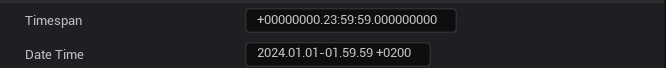
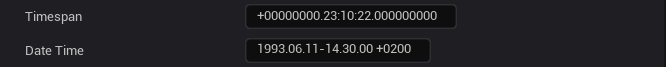
Fixed rounding up issue

diff --git a/Source/CommonTime/Private/DetailCustomizations/MyDateTimeDetailCustomization.cpp b/Source/CommonTime/Private/DetailCustomizations/MyDateTimeDetailCustomization.cpp
@@ -40,94 +40,106 @@ void FMyDateTimeDetailCustomization::CustomizeHeader(TSharedRef<IPropertyHandle>
 {
 	PropertyHandle = StructPropertyHandle;
 
-	SAssignNew(YearEntryBox, SNumericEntryBox<int32>)
+	SAssignNew(YearEntryBox, SNumericEntryBox<double>)
 		.AllowSpin(true)
 		.MinValue(1)
 		.MaxValue(9999)
 		.MinSliderValue(1)
 		.MaxSliderValue(9999)
+		.MinFractionalDigits(0)
+		.MaxFractionalDigits(0)
 		.Font(IDetailLayoutBuilder::GetDetailFont())
 		.Value(this, &FMyDateTimeDetailCustomization::OnGetValue, 3)
 		.OnValueChanged(this, &FMyDateTimeDetailCustomization::OnValueChanged, 3)
 		.OnValueCommitted(this, &FMyDateTimeDetailCustomization::OnValueCommitted, 3)
 		.OnBeginSliderMovement(this, &FMyDateTimeDetailCustomization::OnBeginSliderMovement)
 		.OnEndSliderMovement(this, &FMyDateTimeDetailCustomization::OnEndSliderMovement)
-		.TypeInterface(MakeShareable(new TNumericUnitTypeInterface<int32>(EUnit::Years)))
+		.TypeInterface(MakeShareable(new TNumericUnitTypeInterface<double>(EUnit::Years)))
 		.LinearDeltaSensitivity(1);
 
-	SAssignNew(MonthEntryBox, SNumericEntryBox<int32>)
+	SAssignNew(MonthEntryBox, SNumericEntryBox<double>)
 		.AllowSpin(true)
 		.MinValue(1)
 		.MaxValue(12)
 		.MinSliderValue(1)
 		.MaxSliderValue(12)
+		.MinFractionalDigits(0)
+		.MaxFractionalDigits(0)
 		.Font(IDetailLayoutBuilder::GetDetailFont())
 		.Value(this, &FMyDateTimeDetailCustomization::OnGetValue, 4)
 		.OnValueChanged(this, &FMyDateTimeDetailCustomization::OnValueChanged, 4)
 		.OnValueCommitted(this, &FMyDateTimeDetailCustomization::OnValueCommitted, 4)
 		.OnBeginSliderMovement(this, &FMyDateTimeDetailCustomization::OnBeginSliderMovement)
 		.OnEndSliderMovement(this, &FMyDateTimeDetailCustomization::OnEndSliderMovement)
-		.TypeInterface(MakeShareable(new TNumericUnitTypeInterface<int32>(EUnit::Months)))
+		.TypeInterface(MakeShareable(new TNumericUnitTypeInterface<double>(EUnit::Months)))
 		.LinearDeltaSensitivity(1);
 
-	SAssignNew(DayEntryBox, SNumericEntryBox<int32>)
+	SAssignNew(DayEntryBox, SNumericEntryBox<double>)
 		.AllowSpin(true)
 		.MinValue(1)
 		.MaxValue(31)
 		.MinSliderValue(1)
 		.MaxSliderValue(31)
+		.MinFractionalDigits(0)
+		.MaxFractionalDigits(0)
 		.Font(IDetailLayoutBuilder::GetDetailFont())
 		.Value(this, &FMyDateTimeDetailCustomization::OnGetValue, 5)
 		.OnValueChanged(this, &FMyDateTimeDetailCustomization::OnValueChanged, 5)
 		.OnValueCommitted(this, &FMyDateTimeDetailCustomization::OnValueCommitted, 5)
 		.OnBeginSliderMovement(this, &FMyDateTimeDetailCustomization::OnBeginSliderMovement)
 		.OnEndSliderMovement(this, &FMyDateTimeDetailCustomization::OnEndSliderMovement)
-		.TypeInterface(MakeShareable(new TNumericUnitTypeInterface<int32>(EUnit::Days)))
+		.TypeInterface(MakeShareable(new TNumericUnitTypeInterface<double>(EUnit::Days)))
 		.LinearDeltaSensitivity(1);
 
-	SAssignNew(HourEntryBox, SNumericEntryBox<int32>)
+	SAssignNew(HourEntryBox, SNumericEntryBox<double>)
 		.AllowSpin(true)
 		.MinValue(0)
 		.MaxValue(23)
 		.MinSliderValue(0)
 		.MaxSliderValue(23)
+		.MinFractionalDigits(0)
+		.MaxFractionalDigits(0)
 		.Font(IDetailLayoutBuilder::GetDetailFont())
 		.Value(this, &FMyDateTimeDetailCustomization::OnGetValue, 0)
 		.OnValueChanged(this, &FMyDateTimeDetailCustomization::OnValueChanged, 0)
 		.OnValueCommitted(this, &FMyDateTimeDetailCustomization::OnValueCommitted, 0)
 		.OnBeginSliderMovement(this, &FMyDateTimeDetailCustomization::OnBeginSliderMovement)
 		.OnEndSliderMovement(this, &FMyDateTimeDetailCustomization::OnEndSliderMovement)
-		.TypeInterface(MakeShareable(new TNumericUnitTypeInterface<int32>(EUnit::Hours)))
+		.TypeInterface(MakeShareable(new TNumericUnitTypeInterface<double>(EUnit::Hours)))
 		.LinearDeltaSensitivity(1);
 
-	SAssignNew(MinuteEntryBox, SNumericEntryBox<int32>)
+	SAssignNew(MinuteEntryBox, SNumericEntryBox<double>)
 		.AllowSpin(true)
 		.MinValue(0)
 		.MaxValue(59)
 		.MinSliderValue(0)
 		.MaxSliderValue(59)
+		.MinFractionalDigits(0)
+		.MaxFractionalDigits(0)
 		.Font(IDetailLayoutBuilder::GetDetailFont())
 		.Value(this, &FMyDateTimeDetailCustomization::OnGetValue, 1)
 		.OnValueChanged(this, &FMyDateTimeDetailCustomization::OnValueChanged, 1)
 		.OnValueCommitted(this, &FMyDateTimeDetailCustomization::OnValueCommitted, 1)
 		.OnBeginSliderMovement(this, &FMyDateTimeDetailCustomization::OnBeginSliderMovement)
 		.OnEndSliderMovement(this, &FMyDateTimeDetailCustomization::OnEndSliderMovement)
-		.TypeInterface(MakeShareable(new TNumericUnitTypeInterface<int32>(EUnit::Minutes)))
+		.TypeInterface(MakeShareable(new TNumericUnitTypeInterface<double>(EUnit::Minutes)))
 		.LinearDeltaSensitivity(1);
 
-	SAssignNew(SecondEntryBox, SNumericEntryBox<int32>)
+	SAssignNew(SecondEntryBox, SNumericEntryBox<double>)
 		.AllowSpin(true)
 		.MinValue(0)
 		.MaxValue(59)
 		.MinSliderValue(0)
 		.MaxSliderValue(59)
+		.MinFractionalDigits(0)
+		.MaxFractionalDigits(0)
 		.Font(IDetailLayoutBuilder::GetDetailFont())
 		.Value(this, &FMyDateTimeDetailCustomization::OnGetValue, 2)
 		.OnValueChanged(this, &FMyDateTimeDetailCustomization::OnValueChanged, 2)
 		.OnValueCommitted(this, &FMyDateTimeDetailCustomization::OnValueCommitted, 2)
 		.OnBeginSliderMovement(this, &FMyDateTimeDetailCustomization::OnBeginSliderMovement)
 		.OnEndSliderMovement(this, &FMyDateTimeDetailCustomization::OnEndSliderMovement)
-		.TypeInterface(MakeShareable(new TNumericUnitTypeInterface<int32>(EUnit::Seconds)))
+		.TypeInterface(MakeShareable(new TNumericUnitTypeInterface<double>(EUnit::Seconds)))
 		.LinearDeltaSensitivity(1);
 
 	HeaderRow
@@ -193,41 +205,41 @@ void FMyDateTimeDetailCustomization::CustomizeHeader(TSharedRef<IPropertyHandle>
 /* FMyDateTimeDetailCustomization callbacks
  *****************************************************************************/
 
-TOptional<int32> FMyDateTimeDetailCustomization::OnGetValue(int32 Index) const
+TOptional<double> FMyDateTimeDetailCustomization::OnGetValue(int32 Index) const
 {
 	TArray<void*> RawData;
 	PropertyHandle->AccessRawData(RawData);
 
 	if (RawData.Num() != 1)
-		return TOptional<int32>();
+		return TOptional<double>();
 
 	if (RawData[0] == nullptr)
-		return TOptional<int32>();
+		return TOptional<double>();
 
 	auto* DateTime = ((FDateTime*)RawData[0]);
 
 	switch (Index)
 	{
 		case 0:
-			return TOptional<int32>(DateTime->GetHour());
+			return TOptional<double>(DateTime->GetHour());
 
 		case 1:
-			return TOptional<int32>(DateTime->GetMinute());
+			return TOptional<double>(DateTime->GetMinute());
 
 		case 2:
-			return TOptional<int32>(DateTime->GetSecond());
+			return TOptional<double>(DateTime->GetSecond());
 
 		case 3:
-			return TOptional<int32>(DateTime->GetYear());
+			return TOptional<double>(DateTime->GetYear());
 
 		case 4:
-			return TOptional<int32>(DateTime->GetMonth());
+			return TOptional<double>(DateTime->GetMonth());
 
 		case 5:
-			return TOptional<int32>(DateTime->GetDay());
+			return TOptional<double>(DateTime->GetDay());
 
 		default:
-			return TOptional<int32>();
+			return TOptional<double>();
 	}
 }
 
@@ -242,15 +254,17 @@ void FMyDateTimeDetailCustomization::OnBeginSliderMovement()
 	);
 }
 
-void FMyDateTimeDetailCustomization::OnEndSliderMovement(int32 NewValue)
+void FMyDateTimeDetailCustomization::OnEndSliderMovement(double NewValue)
 {
 	bIsUsingSlider = false;
 
 	GEditor->EndTransaction();
 }
 
-void FMyDateTimeDetailCustomization::OnValueCommitted(int32 NewValue, ETextCommit::Type CommitType, int32 Index)
+void FMyDateTimeDetailCustomization::OnValueCommitted(double NewValue, ETextCommit::Type CommitType, int32 Index)
 {
+	NewValue = FMath::CeilToDouble(NewValue);
+
 	TArray<void*> RawData;
 
 	PropertyHandle->AccessRawData(RawData);
@@ -311,10 +325,12 @@ void FMyDateTimeDetailCustomization::OnValueCommitted(int32 NewValue, ETextCommi
 	PropertyHandle->NotifyFinishedChangingProperties();
 }
 
-void FMyDateTimeDetailCustomization::OnValueChanged(int32 NewValue, int32 Index)
+void FMyDateTimeDetailCustomization::OnValueChanged(double NewValue, int32 Index)
 {
 	if (!bIsUsingSlider)
 		return;
+
+	NewValue = FMath::CeilToDouble(NewValue);
 
 	TArray<void*> RawData;
 
@@ -374,9 +390,6 @@ void FMyDateTimeDetailCustomization::OnValueChanged(int32 NewValue, int32 Index)
 
 	PropertyHandle->NotifyPostChange(EPropertyChangeType::ValueSet);
 	PropertyHandle->NotifyFinishedChangingProperties();
-
-	//EPropertyValueSetFlags::Type Flags = EPropertyValueSetFlags::InteractiveChange;
-	//PropertyHandle->SetValue(NewValue, Flags);
 }
 
 #undef LOCTEXT_NAMESPACE

diff --git a/Source/CommonTime/Private/DetailCustomizations/MyTimespanDetailCustomization.cpp b/Source/CommonTime/Private/DetailCustomizations/MyTimespanDetailCustomization.cpp
@@ -44,49 +44,55 @@ void FMyTimespanDetailCustomization::CustomizeHeader(
 {
 	PropertyHandle = StructPropertyHandle;
 
-	SAssignNew(HourEntryBox, SNumericEntryBox<int32>)
+	SAssignNew(HourEntryBox, SNumericEntryBox<double>)
 		.AllowSpin(true)
 		.MinValue(0)
 		.MaxValue(23)
 		.MinSliderValue(0)
 		.MaxSliderValue(23)
+		.MinFractionalDigits(0)
+		.MaxFractionalDigits(0)
 		.Font(IDetailLayoutBuilder::GetDetailFont())
 		.Value(this, &FMyTimespanDetailCustomization::OnGetValue, 0)
 		.OnValueChanged(this, &FMyTimespanDetailCustomization::OnValueChanged, 0)
 		.OnValueCommitted(this, &FMyTimespanDetailCustomization::OnValueCommitted, 0)
 		.OnBeginSliderMovement(this, &FMyTimespanDetailCustomization::OnBeginSliderMovement)
 		.OnEndSliderMovement(this, &FMyTimespanDetailCustomization::OnEndSliderMovement)
-		.TypeInterface(MakeShareable(new TNumericUnitTypeInterface<int32>(EUnit::Hours)))
+		.TypeInterface(MakeShareable(new TNumericUnitTypeInterface<double>(EUnit::Hours)))
 		.LinearDeltaSensitivity(1);
 
-	SAssignNew(MinuteEntryBox, SNumericEntryBox<int32>)
+	SAssignNew(MinuteEntryBox, SNumericEntryBox<double>)
 		.AllowSpin(true)
 		.MinValue(0)
 		.MaxValue(59)
 		.MinSliderValue(0)
 		.MaxSliderValue(59)
+		.MinFractionalDigits(0)
+		.MaxFractionalDigits(0)
 		.Font(IDetailLayoutBuilder::GetDetailFont())
 		.Value(this, &FMyTimespanDetailCustomization::OnGetValue, 1)
 		.OnValueChanged(this, &FMyTimespanDetailCustomization::OnValueChanged, 1)
 		.OnValueCommitted(this, &FMyTimespanDetailCustomization::OnValueCommitted, 1)
 		.OnBeginSliderMovement(this, &FMyTimespanDetailCustomization::OnBeginSliderMovement)
 		.OnEndSliderMovement(this, &FMyTimespanDetailCustomization::OnEndSliderMovement)
-		.TypeInterface(MakeShareable(new TNumericUnitTypeInterface<int32>(EUnit::Minutes)))
+		.TypeInterface(MakeShareable(new TNumericUnitTypeInterface<double>(EUnit::Minutes)))
 		.LinearDeltaSensitivity(1);
 
-	SAssignNew(SecondEntryBox, SNumericEntryBox<int32>)
+	SAssignNew(SecondEntryBox, SNumericEntryBox<double>)
 		.AllowSpin(true)
 		.MinValue(0)
 		.MaxValue(59)
 		.MinSliderValue(0)
 		.MaxSliderValue(59)
+		.MinFractionalDigits(0)
+		.MaxFractionalDigits(0)
 		.Font(IDetailLayoutBuilder::GetDetailFont())
 		.Value(this, &FMyTimespanDetailCustomization::OnGetValue, 2)
 		.OnValueChanged(this, &FMyTimespanDetailCustomization::OnValueChanged, 2)
 		.OnValueCommitted(this, &FMyTimespanDetailCustomization::OnValueCommitted, 2)
 		.OnBeginSliderMovement(this, &FMyTimespanDetailCustomization::OnBeginSliderMovement)
 		.OnEndSliderMovement(this, &FMyTimespanDetailCustomization::OnEndSliderMovement)
-		.TypeInterface(MakeShareable(new TNumericUnitTypeInterface<int32>(EUnit::Seconds)))
+		.TypeInterface(MakeShareable(new TNumericUnitTypeInterface<double>(EUnit::Seconds)))
 		.LinearDeltaSensitivity(1);
 
 	HeaderRow
@@ -121,32 +127,32 @@ void FMyTimespanDetailCustomization::CustomizeHeader(
 /* FMyTimespanDetailCustomization callbacks
  *****************************************************************************/
 
-TOptional<int32> FMyTimespanDetailCustomization::OnGetValue(int32 Index) const
+TOptional<double> FMyTimespanDetailCustomization::OnGetValue(int32 Index) const
 {
 	TArray<void*> RawData;
 	PropertyHandle->AccessRawData(RawData);
 
 	if (RawData.Num() != 1)
-		return TOptional<int32>();
+		return TOptional<double>();
 
 	if (RawData[0] == nullptr)
-		return TOptional<int32>();
+		return TOptional<double>();
 
 	auto* Timespan = ((FTimespan*)RawData[0]);
 
 	switch (Index)
 	{
 		case 0:
-			return TOptional<int32>(Timespan->GetHours());
+			return TOptional<double>(Timespan->GetHours());
 
 		case 1:
-			return TOptional<int32>(Timespan->GetMinutes());
+			return TOptional<double>(Timespan->GetMinutes());
 
 		case 2:
-			return TOptional<int32>(Timespan->GetSeconds());
+			return TOptional<double>(Timespan->GetSeconds());
 
 		default:
-			return TOptional<int32>();
+			return TOptional<double>();
 	}
 }
 
@@ -157,15 +163,17 @@ void FMyTimespanDetailCustomization::OnBeginSliderMovement()
 	GEditor->BeginTransaction(FText::Format(NSLOCTEXT("MyTimespanDetailCustomization", "SetTimespanProperty", "Edit {0}"), PropertyHandle->GetPropertyDisplayName()));
 }
 
-void FMyTimespanDetailCustomization::OnEndSliderMovement(int32 NewValue)
+void FMyTimespanDetailCustomization::OnEndSliderMovement(double NewValue)
 {
 	bIsUsingSlider = false;
 
 	GEditor->EndTransaction();
 }
 
-void FMyTimespanDetailCustomization::OnValueCommitted(int32 NewValue, ETextCommit::Type CommitType, int32 Index)
+void FMyTimespanDetailCustomization::OnValueCommitted(double NewValue, ETextCommit::Type CommitType, int32 Index)
 {
+	NewValue = FMath::CeilToDouble(NewValue);
+
 	TArray<void*> RawData;
 
 	PropertyHandle->AccessRawData(RawData);
@@ -202,13 +210,12 @@ void FMyTimespanDetailCustomization::OnValueCommitted(int32 NewValue, ETextCommi
 	PropertyHandle->NotifyFinishedChangingProperties();
 }
 
-void FMyTimespanDetailCustomization::OnValueChanged(int32 NewValue, int32 Index)
+void FMyTimespanDetailCustomization::OnValueChanged(double NewValue, int32 Index)
 {
 	if (!bIsUsingSlider)
 		return;
 
-	//EPropertyValueSetFlags::Type Flags = EPropertyValueSetFlags::InteractiveChange;
-	//PropertyHandle->SetValue(NewValue, Flags);
+	NewValue = FMath::CeilToDouble(NewValue);
 
 	TArray<void*> RawData;
 

diff --git a/Source/CommonTime/Public/DetailCustomizations/MyDateTimeDetailCustomization.h b/Source/CommonTime/Public/DetailCustomizations/MyDateTimeDetailCustomization.h
@@ -36,11 +36,11 @@ public:
 	void CustomizeHeader(TSharedRef<class IPropertyHandle> StructPropertyHandle, class FDetailWidgetRow& HeaderRow, IPropertyTypeCustomizationUtils& StructCustomizationUtils) override;
 
 private:
-	TOptional<int32> OnGetValue(int32 Index) const;
-	void OnValueCommitted(int32 NewValue, ETextCommit::Type CommitType, int32 Index);
-	void OnValueChanged(int32 NewValue, int32 Index);
+	TOptional<double> OnGetValue(int32 Index) const;
+	void OnValueCommitted(double NewValue, ETextCommit::Type CommitType, int32 Index);
+	void OnValueChanged(double NewValue, int32 Index);
 	void OnBeginSliderMovement();
-	void OnEndSliderMovement(int32 NewValue);
+	void OnEndSliderMovement(double NewValue);
 
 private:
 	/** Holds a handle to the property being edited. */

diff --git a/Source/CommonTime/Public/DetailCustomizations/MyTimespanDetailCustomization.h b/Source/CommonTime/Public/DetailCustomizations/MyTimespanDetailCustomization.h
@@ -35,11 +35,11 @@ public:
 	void CustomizeHeader(TSharedRef<class IPropertyHandle> StructPropertyHandle, class FDetailWidgetRow& HeaderRow, IPropertyTypeCustomizationUtils& StructCustomizationUtils) override;
 
 private:
-	TOptional<int32> OnGetValue(int32 Index) const;
-	void OnValueCommitted(int32 NewValue, ETextCommit::Type CommitType, int32 Index);
-	void OnValueChanged(int32 NewValue, int32 Index);
+	TOptional<double> OnGetValue(int32 Index) const;
+	void OnValueCommitted(double NewValue, ETextCommit::Type CommitType, int32 Index);
+	void OnValueChanged(double NewValue, int32 Index);
 	void OnBeginSliderMovement();
-	void OnEndSliderMovement(int32 NewValue);
+	void OnEndSliderMovement(double NewValue);
 
 private:
 	/** Holds a handle to the property being edited. */
